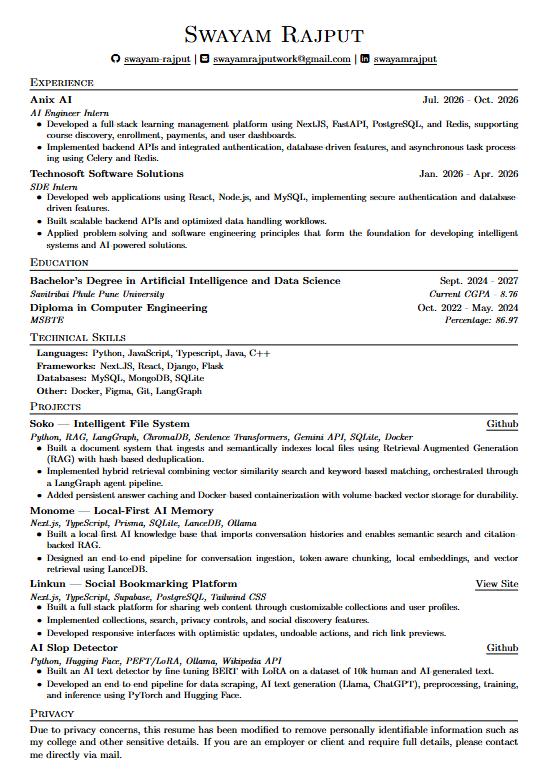
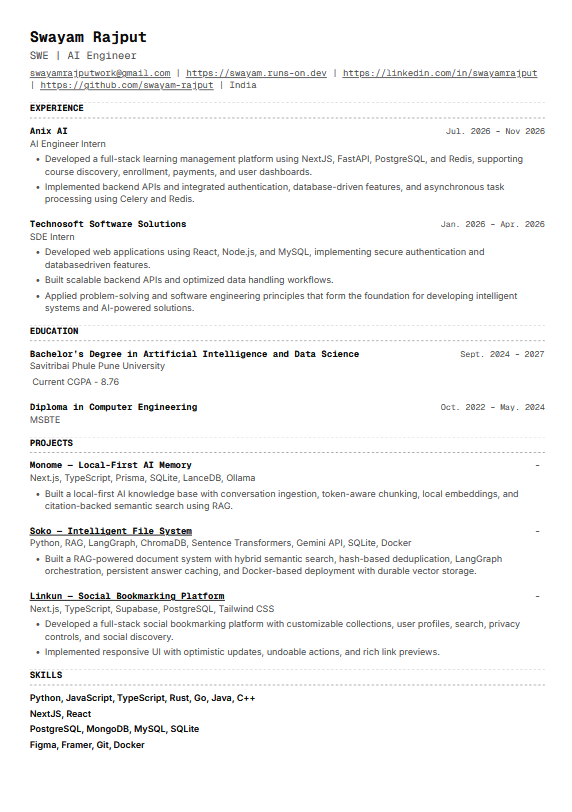
update(resume_url): resume url var added for better updation

Changed region(s): [[0.0295, 0.0309, 0.9742, 0.9884]]

diff --git a/src/app/page.tsx b/src/app/page.tsx
@@ -11,7 +11,7 @@ import { Tree } from "./components/Tree";
 import { ArrowRight , TerminalIcon } from "lucide-react";
 import { LinkPreview } from "@/components/ui/link-preview";
 
-
+const RESUME_URL = 'https://drive.google.com/file/d/1YsbPDLg731XVDFanJSHo9nsl-jPWvF3m/view?usp=drive_link';
 export default function Home() {
 
     return (
@@ -52,7 +52,7 @@ export default function Home() {
                                 {/* <div className="opacity-90 text-background"></div>   */}
                                 <div className="mt-8 flex items-center gap-10">
 
-                                        <LinkPreview  className="flex flex-row rounded-sm border border-border"  isStatic imageSrc="/resume.png" url="https://drive.google.com/file/d/15TDS1Isfa2dY03CRT1Cp98Tb9G8F24_e/view?usp=sharing">
+                                        <LinkPreview  className="flex flex-row rounded-sm border border-border"  isStatic imageSrc="/resume.png" url={RESUME_URL}>
                                             {/* <Link href= target="_blank" rel="noopener noreferrer"> */}
                                             <Button  data-cuelume-hover='tick' variant={'outline'}  className="bg-transparent shadow-md hover:shadow  group ">
                                             {/* <span className="relative flex h-[1.2em] flex-col overflow-hidden">
